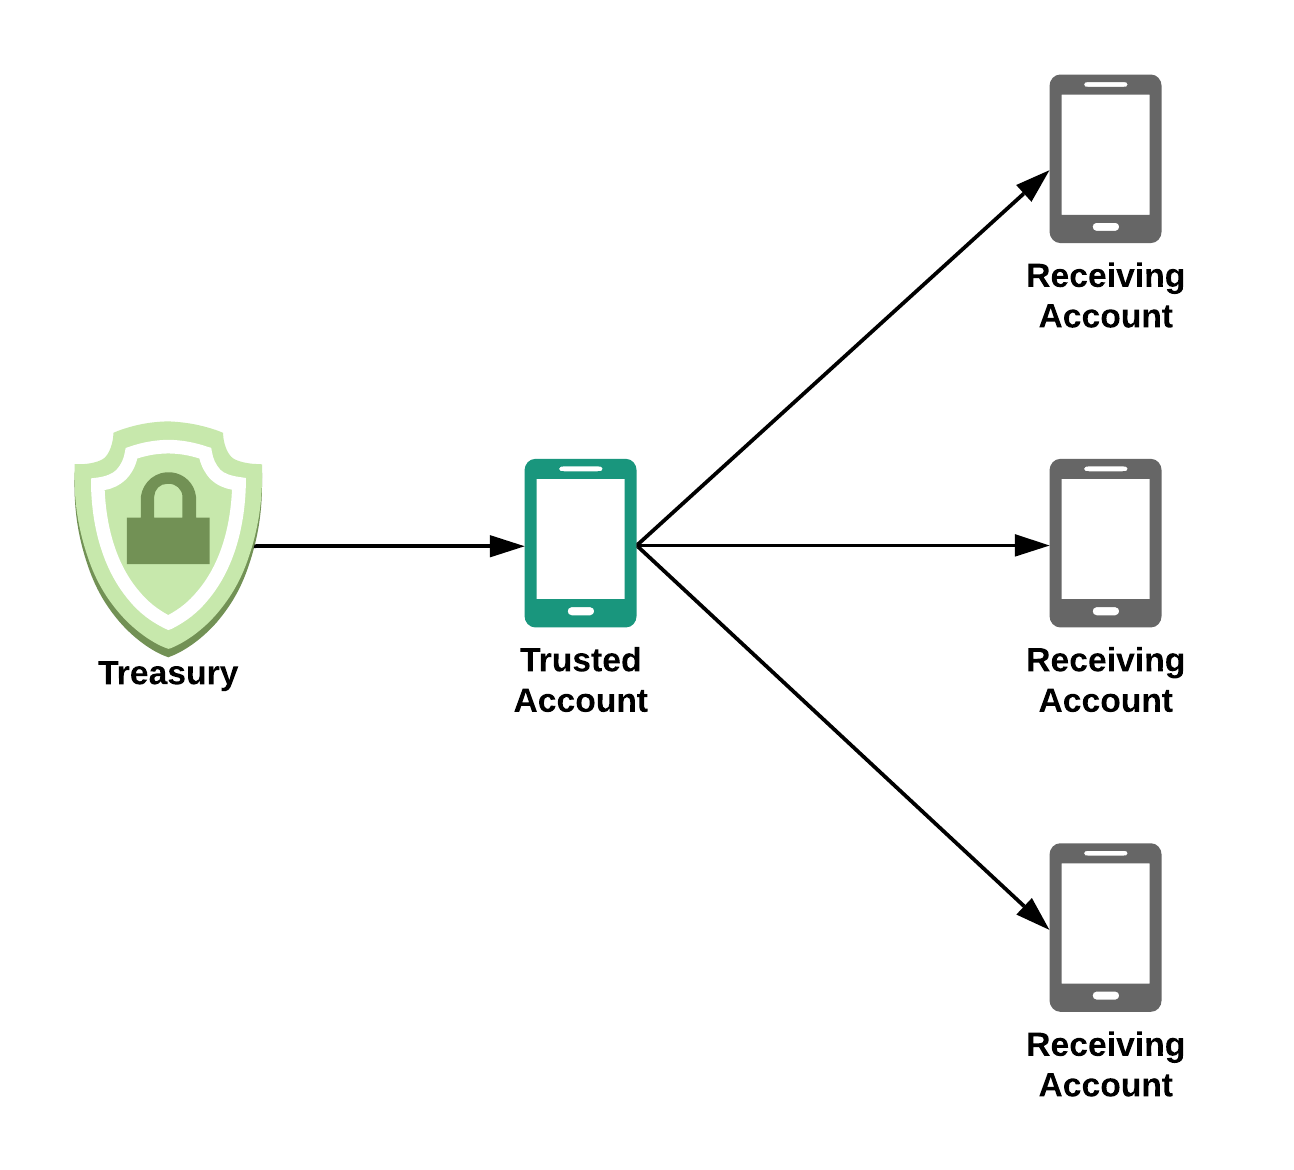
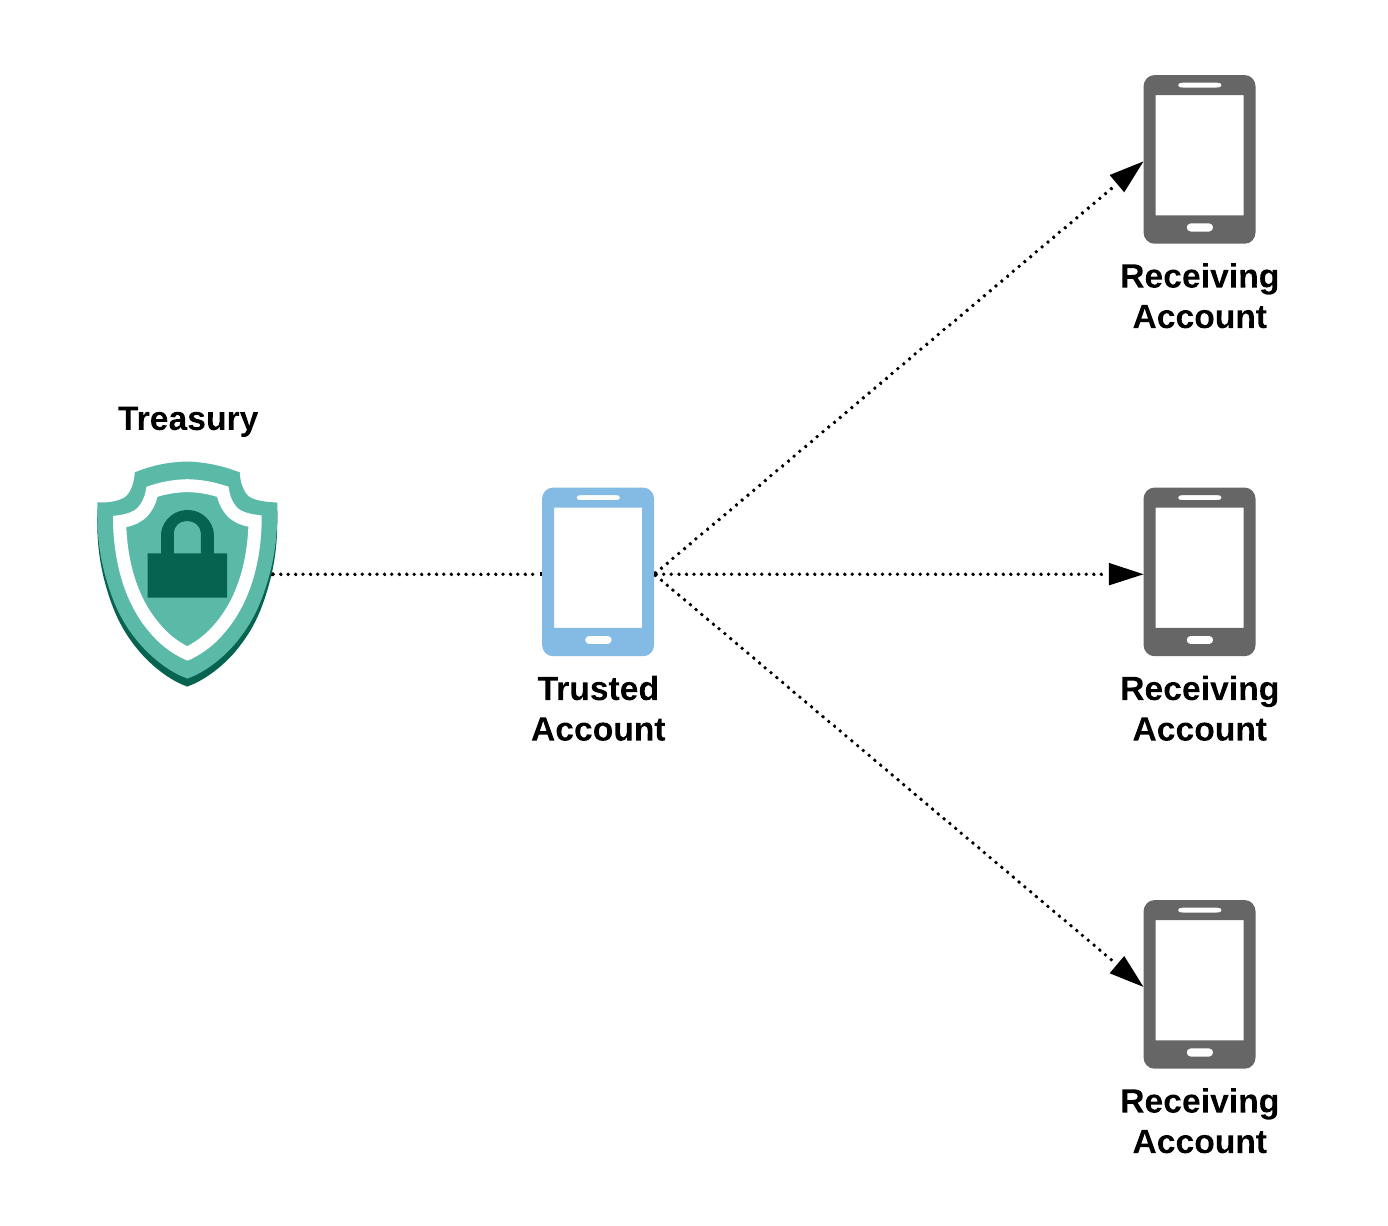
Cleaning and new graphic

diff --git a/src/containers/Docs/FutureDevelopment/index.tsx b/src/containers/Docs/FutureDevelopment/index.tsx
@@ -10,7 +10,8 @@ const FutureDevelopment = () => {
         In addition to the architecture outlined earlier, there are also several additional features being considered
         for inclusion into the network. These features require additional discussion with the development community.
       </p>
-      <p>Interest Rates</p>
+
+      <strong>Interest Rates</strong>
       <p>
         As the network grows, additional points must be created to match the natural growth of the economy in order to
         remain as an effective means for exchange of value for goods and services. A fixed interest rate structure is
@@ -19,7 +20,8 @@ const FutureDevelopment = () => {
         able to obtain points to use as a means of exchange as the network grows. Additional discussion and consensus
         among the development community is required before integration into the network.
       </p>
-      <p>Payment Library</p>
+
+      <strong>Payment Library</strong>
       <p>
         A payment library is necessary to allow for the widespread adoption of the network. This will allow individuals
         and businesses to make and receive points over the network through simple integration. These libraries should be

diff --git a/src/containers/Docs/InitialFunds/index.tsx b/src/containers/Docs/InitialFunds/index.tsx
@@ -11,7 +11,7 @@ const InitialFunds = () => {
       <h1 className="page-title">Initial Creation and Distribution of Funds</h1>
       <p>When creating a new economy, there are two important questions that must first be answered:</p>
 
-      <ol>
+      <ol className="mb-20">
         <li>How is currency created?</li>
         <li>How is currency initially distributed?</li>
       </ol>
@@ -135,11 +135,7 @@ const InitialFunds = () => {
       </ol>
 
       <div className="img-container">
-        <img
-          alt="bank distribution schedule diagram"
-          className="bank-distribution-schedule-diagram"
-          src={BankDistributionSchedule}
-        />
+        <img alt="bank distribution schedule" className="bank-distribution-schedule" src={BankDistributionSchedule} />
       </div>
 
       <p>
@@ -178,7 +174,7 @@ const InitialFunds = () => {
       </p>
 
       <div className="img-container">
-        <img alt="treasury diagram" className="treasury-diagram" src={Treasury} />
+        <img alt="treasury" className="treasury" src={Treasury} />
       </div>
 
       <p>

diff --git a/src/containers/Docs/Confirmations/index.tsx b/src/containers/Docs/Confirmations/index.tsx
@@ -25,7 +25,7 @@ const Confirmations = () => {
         sender and if the account number matches a registered bank then they will either:
       </p>
 
-      <ul>
+      <ul className="mb-20">
         <li>add that amount of additional time to the banks existing confirmation service</li>
         <ul>
           <li>

diff --git a/src/containers/Docs/InitialFunds/InitialFunds.scss b/src/containers/Docs/InitialFunds/InitialFunds.scss
@@ -1,2 +1,10 @@
 .InitialFunds {
+  img {
+    &.bank-distribution-schedule {
+      max-width: 640px;
+    }
+    &.treasury {
+      max-width: 640px;
+    }
+  }
 }
